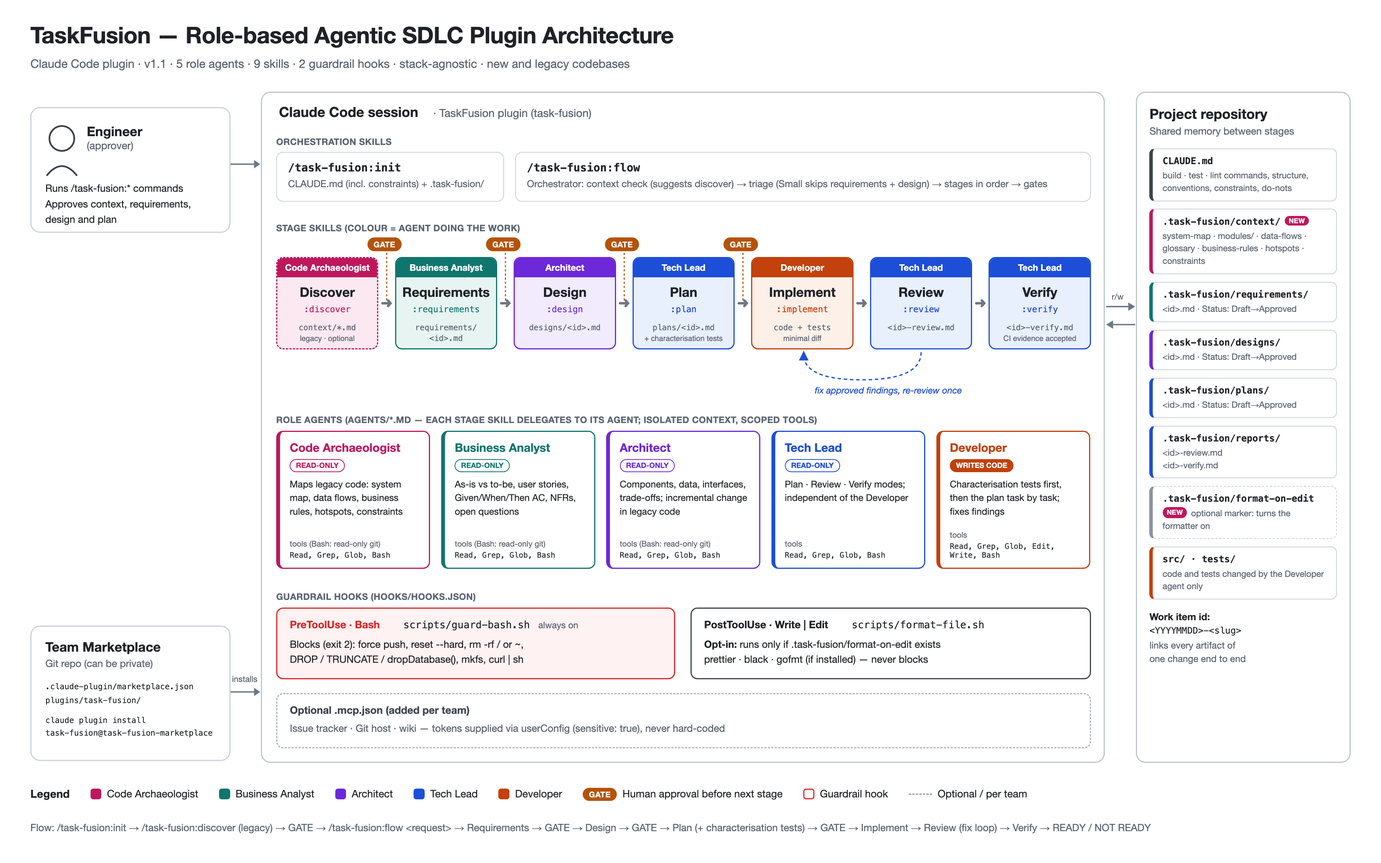
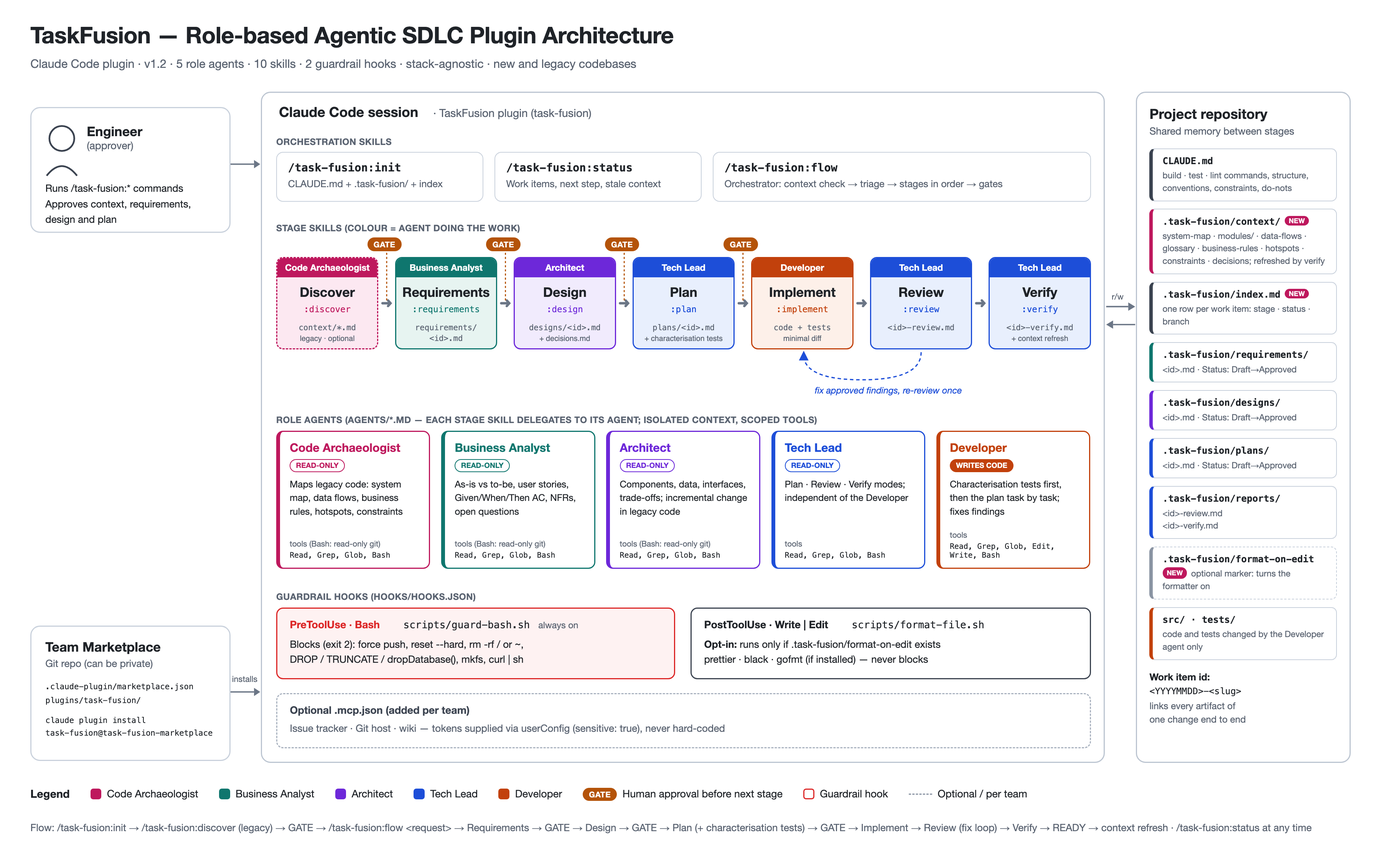
TaskFusion v1.2: work item index, status skill, decision log, context refresh
Closes the context-management gaps in v1.1:
- .task-fusion/index.md tracks every work item (stage, status, branch);
  stages update it and pick the active work item from it instead of
  guessing from the most recent file.
- New /task-fusion:status skill: work items, what each is waiting for,
  index drift, and module context files changed since they were written.
- Design appends approved decisions to .task-fusion/context/decisions.md;
  the architect follows accepted decisions or flags a supersede.
- Verify refreshes the affected context documents after a READY verdict.
- Init recommends committing .task-fusion/ so the team shares it.

Spec (TaskFusion-Build-Spec v1.2), READMEs and the architecture diagram
are updated to match.

diff --git a/docs/architecture.html b/docs/architecture.html
@@ -54,7 +54,7 @@ h1{position:absolute;left:44px;top:30px;margin:0;font-size:33px;font-weight:700;
 </style></head><body>
 
 <h1>TaskFusion — Role-based Agentic SDLC Plugin Architecture</h1>
-<div class="sub">Claude Code plugin · v1.1 · 5 role agents · 9 skills · 2 guardrail hooks · stack-agnostic · new and legacy codebases</div>
+<div class="sub">Claude Code plugin · v1.2 · 5 role agents · 10 skills · 2 guardrail hooks · stack-agnostic · new and legacy codebases</div>
 
 <!-- Engineer -->
 <div class="box" style="left:44px;top:155px;width:290px;height:182px;padding:22px 20px">
@@ -80,11 +80,14 @@ h1{position:absolute;left:44px;top:30px;margin:0;font-size:33px;font-weight:700;
 <div style="position:absolute;left:404px;top:150px;font-size:20px;font-weight:700">Claude Code session <span style="font-size:16px;font-weight:400;color:var(--muted);margin-left:16px">· TaskFusion plugin (task-fusion)</span></div>
 
 <div class="label" style="position:absolute;left:400px;top:197px">Orchestration skills</div>
-<div class="cmd" style="position:absolute;left:400px;top:220px;width:330px;height:72px">
-  <div class="t mono">/task-fusion:init</div><div class="d">CLAUDE.md (incl. constraints) + .task-fusion/</div>
+<div class="cmd" style="position:absolute;left:400px;top:220px;width:300px;height:72px">
+  <div class="t mono">/task-fusion:init</div><div class="d">CLAUDE.md + .task-fusion/ + index</div>
 </div>
-<div class="cmd" style="position:absolute;left:746px;top:220px;width:834px;height:72px">
-  <div class="t mono">/task-fusion:flow</div><div class="d">Orchestrator: context check (suggests discover) → triage (Small skips requirements + design) → stages in order → gates</div>
+<div class="cmd" style="position:absolute;left:716px;top:220px;width:300px;height:72px">
+  <div class="t mono">/task-fusion:status</div><div class="d">Work items, next step, stale context</div>
+</div>
+<div class="cmd" style="position:absolute;left:1032px;top:220px;width:548px;height:72px">
+  <div class="t mono">/task-fusion:flow</div><div class="d">Orchestrator: context check → triage → stages in order → gates</div>
 </div>
 
 <div class="label" style="position:absolute;left:400px;top:322px">Stage skills (colour = agent doing the work)</div>
@@ -94,7 +97,7 @@ h1{position:absolute;left:44px;top:30px;margin:0;font-size:33px;font-weight:700;
     <div class="arrow">➜</div>
     <div class="stage" style="border-color:var(--ba);background:var(--ba-bg)"><div class="hd" style="background:var(--ba)">Business Analyst</div><div class="nm">Requirements</div><div class="sk mono" style="color:var(--ba)">:requirements</div><div class="out mono">requirements/<br>&lt;id&gt;.md</div></div>
     <div class="arrow">➜</div>
-    <div class="stage" style="border-color:var(--ar);background:var(--ar-bg)"><div class="hd" style="background:var(--ar)">Architect</div><div class="nm">Design</div><div class="sk mono" style="color:var(--ar)">:design</div><div class="out mono">designs/&lt;id&gt;.md</div></div>
+    <div class="stage" style="border-color:var(--ar);background:var(--ar-bg)"><div class="hd" style="background:var(--ar)">Architect</div><div class="nm">Design</div><div class="sk mono" style="color:var(--ar)">:design</div><div class="out mono">designs/&lt;id&gt;.md<br><span style="font-family:Inter,-apple-system,sans-serif;font-size:11px">+ decisions.md</span></div></div>
     <div class="arrow">➜</div>
     <div class="stage" style="border-color:var(--tl);background:var(--tl-bg)"><div class="hd" style="background:var(--tl)">Tech Lead</div><div class="nm">Plan</div><div class="sk mono" style="color:var(--tl)">:plan</div><div class="out mono">plans/&lt;id&gt;.md<br><span style="font-family:Inter,-apple-system,sans-serif;font-size:11px">+ characterisation tests</span></div></div>
     <div class="arrow">➜</div>
@@ -102,7 +105,7 @@ h1{position:absolute;left:44px;top:30px;margin:0;font-size:33px;font-weight:700;
     <div class="arrow">➜</div>
     <div class="stage" style="border-color:var(--tl);background:var(--tl-bg)"><div class="hd" style="background:var(--tl)">Tech Lead</div><div class="nm">Review</div><div class="sk mono" style="color:var(--tl)">:review</div><div class="out mono">&lt;id&gt;-review.md</div></div>
     <div class="arrow">➜</div>
-    <div class="stage" style="border-color:var(--tl);background:var(--tl-bg)"><div class="hd" style="background:var(--tl)">Tech Lead</div><div class="nm">Verify</div><div class="sk mono" style="color:var(--tl)">:verify</div><div class="out mono">&lt;id&gt;-verify.md<br><span style="font-family:Inter,-apple-system,sans-serif;font-size:11px">CI evidence accepted</span></div></div>
+    <div class="stage" style="border-color:var(--tl);background:var(--tl-bg)"><div class="hd" style="background:var(--tl)">Tech Lead</div><div class="nm">Verify</div><div class="sk mono" style="color:var(--tl)">:verify</div><div class="out mono">&lt;id&gt;-verify.md<br><span style="font-family:Inter,-apple-system,sans-serif;font-size:11px">+ context refresh</span></div></div>
   </div>
   <!-- gates: arrow centres at i*172+160 -->
   <div class="gate" style="left:132px;top:-28px">GATE</div>
@@ -163,7 +166,8 @@ h1{position:absolute;left:44px;top:30px;margin:0;font-size:33px;font-weight:700;
   <div style="font-size:20px;font-weight:700">Project repository</div>
   <div style="font-size:14.5px;color:var(--muted);margin:4px 0 16px">Shared memory between stages</div>
   <div class="repo" style="border-left-color:#3b4350"><div class="p mono">CLAUDE.md</div><div class="d">build · test · lint commands, structure, conventions, constraints, do-nots</div></div>
-  <div class="repo" style="border-left-color:var(--ca)"><div class="p mono">.task-fusion/context/<span class="new">NEW</span></div><div class="d">system-map · modules/ · data-flows · glossary · business-rules · hotspots · constraints</div></div>
+  <div class="repo" style="border-left-color:var(--ca)"><div class="p mono">.task-fusion/context/<span class="new">NEW</span></div><div class="d">system-map · modules/ · data-flows · glossary · business-rules · hotspots · constraints · decisions; refreshed by verify</div></div>
+  <div class="repo" style="border-left-color:#3b4350"><div class="p mono">.task-fusion/index.md<span class="new">NEW</span></div><div class="d">one row per work item: stage · status · branch</div></div>
   <div class="repo" style="border-left-color:var(--ba)"><div class="p mono">.task-fusion/requirements/</div><div class="d">&lt;id&gt;.md · Status: Draft→Approved</div></div>
   <div class="repo" style="border-left-color:var(--ar)"><div class="p mono">.task-fusion/designs/</div><div class="d">&lt;id&gt;.md · Status: Draft→Approved</div></div>
   <div class="repo" style="border-left-color:var(--tl)"><div class="p mono">.task-fusion/plans/</div><div class="d">&lt;id&gt;.md · Status: Draft→Approved</div></div>
@@ -186,5 +190,5 @@ h1{position:absolute;left:44px;top:30px;margin:0;font-size:33px;font-weight:700;
   <span><span class="sw" style="border:2px solid var(--red);background:#fff"></span>Guardrail hook</span>
   <span><span style="display:inline-block;width:34px;border-top:2px dashed #8a94a3;vertical-align:4px;margin-right:8px"></span>Optional / per team</span>
 </div>
-<div class="foot">Flow: /task-fusion:init → /task-fusion:discover (legacy) → GATE → /task-fusion:flow &lt;request&gt; → Requirements → GATE → Design → GATE → Plan (+ characterisation tests) → GATE → Implement → Review (fix loop) → Verify → READY / NOT READY</div>
+<div class="foot">Flow: /task-fusion:init → /task-fusion:discover (legacy) → GATE → /task-fusion:flow &lt;request&gt; → Requirements → GATE → Design → GATE → Plan (+ characterisation tests) → GATE → Implement → Review (fix loop) → Verify → READY → context refresh · /task-fusion:status at any time</div>
 </body></html>

diff --git a/task-fusion-marketplace/plugins/task-fusion/skills/init/SKILL.md b/task-fusion-marketplace/plugins/task-fusion/skills/init/SKILL.md
@@ -22,9 +22,15 @@ Goal: give every later TaskFusion stage reliable, project-specific context.
    - ## Constraints (runtime and framework versions, environment limits, test coverage)
    - ## Do not (things that must never be changed or run)
 8. For a large repository with several major modules, offer to create a short CLAUDE.md inside each major module folder with that module's commands and conventions. Only create them if the user agrees.
-9. Create .task-fusion/ with the subfolders context/, requirements/, designs/, plans/ and reports/ if they do not exist.
-10. Ask the user whether .task-fusion/reports/ should be added to .gitignore. Only change .gitignore if they agree.
+9. Create .task-fusion/ with the subfolders context/, requirements/, designs/, plans/ and reports/ if they do not exist, and an index.md that contains only the work item table header shown below.
+10. Recommend committing .task-fusion/ (context/, requirements/, designs/, plans/ and index.md) so the whole team shares the same project knowledge. Ask whether reports/ should be committed too or added to .gitignore. Only change .gitignore if they agree.
 11. Ask the user whether TaskFusion should format files automatically after each edit. Recommend "no" for legacy or unformatted code, because formatting a whole file turns a small fix into a large diff. If they agree, create the empty file .task-fusion/format-on-edit.
-12. Finish with a short summary. If the repository is large, old or poorly documented, suggest /task-fusion:discover as the next step; otherwise suggest /task-fusion:requirements or /task-fusion:flow.
+12. Finish with a short summary. If the repository is large, old or poorly documented, suggest /task-fusion:discover as the next step; otherwise suggest /task-fusion:requirements or /task-fusion:flow. Mention /task-fusion:status for checking progress later.
 
 Keep CLAUDE.md under about 150 lines. It is loaded into every session, so every line must earn its place. Detailed knowledge of the system belongs in .task-fusion/context/, which /task-fusion:discover creates.
+
+Index format (.task-fusion/index.md; one row per work item):
+
+   # TaskFusion work items
+   | Work item | Title | Stage | Status | Branch | Updated |
+   |---|---|---|---|---|---|

diff --git a/task-fusion-marketplace/plugins/task-fusion/skills/design/SKILL.md b/task-fusion-marketplace/plugins/task-fusion/skills/design/SKILL.md
@@ -8,8 +8,8 @@ argument-hint: <work item id or requirements file path>
 
 Work item: $ARGUMENTS
 
-1. Load the requirements for the work item (the argument above, or the most recent file in .task-fusion/requirements/). If it is not approved, ask the user to approve it first or confirm they want to continue.
-2. Delegate to the task-fusion:architect agent with the requirements, CLAUDE.md and the relevant files in .task-fusion/context/ (especially constraints.md and hotspots.md).
+1. Load the requirements for the work item (the argument above; otherwise the only active work item in .task-fusion/index.md; if there are several, ask which one). If it is not approved, ask the user to approve it first or confirm they want to continue.
+2. Delegate to the task-fusion:architect agent with the requirements, CLAUDE.md and the relevant files in .task-fusion/context/ (especially constraints.md, hotspots.md and decisions.md). For each modules/<module>.md the design touches, run git log --oneline <its Commit>..HEAD -- <its Paths>; if there are commits, tell the user the file may be stale.
 3. Write the result to .task-fusion/designs/<id>.md using this template:
 
    # Design: <title>
@@ -29,4 +29,15 @@ Work item: $ARGUMENTS
 
 4. Include a simple Mermaid diagram when it makes the structure or flow clearer.
 5. Present a short summary and the file path. STOP and wait for approval.
-6. When the user approves, set "Status: Approved" and suggest /task-fusion:plan <id>.
+6. When the user approves, set "Status: Approved", add each key decision to .task-fusion/context/decisions.md using the format below, update the index row (stage Design, status Approved) and suggest /task-fusion:plan <id>.
+
+Decision log format (.task-fusion/context/decisions.md; create it if missing; newest entry last):
+
+   ## D-<n>: <decision title>
+   Status: Accepted · Date: <date> · Work item: <id>
+   Context: <why a decision was needed>
+   Decision: <option chosen>
+   Alternatives: <options rejected and why>
+   Consequences: <trade-offs accepted>
+
+If a new decision replaces an earlier one, change the earlier entry's status to "Superseded by D-<n>".

diff --git a/task-fusion-marketplace/plugins/task-fusion/README.md b/task-fusion-marketplace/plugins/task-fusion/README.md
@@ -25,6 +25,7 @@ TaskFusion is a Claude Code plugin that packages a generic, role-based agentic S
 | Review | `/task-fusion:review` | Tech Lead | `.task-fusion/reports/<id>-review.md` |
 | Verify | `/task-fusion:verify` | Tech Lead | `.task-fusion/reports/<id>-verify.md` (READY / NOT READY) |
 | End to end | `/task-fusion:flow` | All | Runs every stage with the gates above |
+| Status | `/task-fusion:status` | — | Work items, what each is waiting for, out-of-date context |
 
 ## Guardrails
 
@@ -49,13 +50,27 @@ claude plugin install task-fusion@task-fusion-marketplace
 /task-fusion:init
 /task-fusion:discover            # existing or legacy codebase
 /task-fusion:flow <request>
+/task-fusion:status              # where is everything up to?
 ```
 
 ## Files created in a project
 
 - `CLAUDE.md`
 - `.task-fusion/` with `context/`, `requirements/`, `designs/`, `plans/` and `reports/`
+- `.task-fusion/index.md`: one row per work item (stage, status, branch, last updated)
+- `.task-fusion/context/decisions.md`: decision log, added to whenever a design is approved
 - `.task-fusion/format-on-edit` only if you enable formatting
+
+## How project knowledge is managed
+
+Everything lives in files in the repository, so work survives between sessions and is shared with the team:
+
+- **`CLAUDE.md`** holds commands, conventions and constraints, and is loaded into every session.
+- **`.task-fusion/context/`** holds system knowledge, read by each stage as needed. Verify updates it after every READY change, and `/task-fusion:status` flags module files whose code has changed since they were written.
+- **Work item artifacts** in `requirements/`, `designs/`, `plans/` and `reports/` share one id and are tracked in `index.md`. Acceptance criteria numbers (AC-1, AC-2 …) trace each requirement to its design, tasks, tests and verification.
+- **Agents** each run in their own context and receive only the files their stage needs.
+
+Commit `.task-fusion/` (context, requirements, designs, plans and `index.md`) so the team shares one picture of the project. `reports/` is optional.
 
 ## Working with legacy code
 

diff --git a/task-fusion-marketplace/plugins/task-fusion/skills/discover/SKILL.md b/task-fusion-marketplace/plugins/task-fusion/skills/discover/SKILL.md
@@ -14,12 +14,13 @@ Focus: $ARGUMENTS
 3. For a large repository, split the work by major module. Run the task-fusion:code-archaeologist agent once per module, in parallel where possible, then once more across modules for the system map and cross-module data flows.
 4. Write the results to .task-fusion/context/:
    - system-map.md: purpose, modules, entry points, deployable units, external systems, and a Mermaid diagram
-   - modules/<module>.md: responsibility, key files, inbound and outbound dependencies, data owned, existing tests
+   - modules/<module>.md: a "Paths:" line listing the folders the module covers, then responsibility, key files, inbound and outbound dependencies, data owned, existing tests
    - data-flows.md: main flows end to end, data stores (including stored procedures, triggers, files and queues), batch jobs and integrations
    - glossary.md: domain terms as they appear in code, with their meaning
    - business-rules.md: rules found in code, each with file:line evidence and marked Confirmed or Inferred
    - hotspots.md: high-churn files, code with little or no test coverage, very large or complex files, dead-code candidates, deprecated dependencies
    - constraints.md: language, runtime and framework versions, build quirks, and anything that can only run in CI or a specific environment
+   - decisions.md: notable past decisions visible in code or git history, each marked Inferred, in the decision log format used by /task-fusion:design (optional; the design stage maintains it afterwards)
    Each file starts with "Status: Draft", "Last updated: <date>" and "Commit: <short sha>".
 5. Never copy secret values from configuration files into the context documents. Name the setting and write "<redacted>".
 6. Propose CLAUDE.md additions as a diff: a "## Context" line pointing to .task-fusion/context/, plus any commands or constraints that were missing. Apply them only if the user agrees.

diff --git a/task-fusion-marketplace/plugins/task-fusion/skills/review/SKILL.md b/task-fusion-marketplace/plugins/task-fusion/skills/review/SKILL.md
@@ -9,8 +9,9 @@ argument-hint: [work item id or base branch]
 Input: $ARGUMENTS
 
 1. Determine the base branch: a branch name given above, otherwise the repository default branch (main or master).
-2. Collect the change set: committed changes since the base plus staged and uncommitted changes.
-3. Delegate to the task-fusion:tech-lead agent in review mode with the change set, the matching plan, design and requirements if they exist, CLAUDE.md and .task-fusion/context/constraints.md if it exists.
-4. Present findings grouped as Critical, Major, Minor and Nit, each with file, line, issue and suggested fix.
-5. Do not fix anything automatically. Ask the user which findings to address; hand approved fixes to the task-fusion:developer agent.
-6. Save the review to .task-fusion/reports/<id>-review.md (use the date and branch name as the id when there is no work item).
+2. Find the work item: the id given above, otherwise the row in .task-fusion/index.md whose Branch is the current branch.
+3. Collect the change set: committed changes since the base plus staged and uncommitted changes.
+4. Delegate to the task-fusion:tech-lead agent in review mode with the change set, the matching plan, design and requirements if they exist, CLAUDE.md and .task-fusion/context/constraints.md if it exists.
+5. Present findings grouped as Critical, Major, Minor and Nit, each with file, line, issue and suggested fix.
+6. Do not fix anything automatically. Ask the user which findings to address; hand approved fixes to the task-fusion:developer agent.
+7. Save the review to .task-fusion/reports/<id>-review.md (use the date and branch name as the id when there is no work item). If there is a work item, update its index row: stage Review, status Findings open or Clean.

diff --git a/task-fusion-marketplace/plugins/task-fusion/skills/status/SKILL.md b/task-fusion-marketplace/plugins/task-fusion/skills/status/SKILL.md
@@ -1,0 +1,17 @@
+---
+name: status
+description: Show TaskFusion work items with their stage, approval status and next command, plus any out-of-date context documents. Use when the user asks what is in progress, where a change is up to, or whether the project context is current.
+argument-hint: [work item id]
+---
+
+# TaskFusion: status
+
+Work item: $ARGUMENTS
+
+1. Read .task-fusion/index.md. If it does not exist, build the list from the artifact files in .task-fusion/requirements/, designs/, plans/ and reports/, and offer to create the index.
+2. Check the index against the files on disk: each work item's latest artifact and its "Status:" line. Report any mismatch and offer to correct the index. Only change it if the user agrees.
+3. For each active work item (stage not Done), or only the one named above, show: id, title, stage, status, branch, what it is waiting for (an approval, open review findings or a NOT READY verdict) and the next command to run.
+4. If .task-fusion/context/ exists, check its freshness. For each modules/<module>.md, run git log --oneline <its Commit>..HEAD -- <its Paths> and report how many commits have changed those paths since the file was written. For the other context files, report how many commits the repository has had since their Commit. Mark a module file "Possibly stale" when its paths have changed, and suggest /task-fusion:discover <module> to refresh it.
+5. If .task-fusion/context/decisions.md exists, list its five most recent entries.
+
+Keep the output short: one table of work items, then any warnings. This skill only reads, apart from index corrections the user approves.

diff --git a/task-fusion-marketplace/plugins/task-fusion/skills/flow/SKILL.md b/task-fusion-marketplace/plugins/task-fusion/skills/flow/SKILL.md
@@ -11,7 +11,7 @@ Request: $ARGUMENTS
 
 Keep a task list with one item per stage. Follow each stage's own skill instructions.
 
-0. Context. If .task-fusion/context/ does not exist and the repository is large, old or poorly documented, suggest running /task-fusion:discover first and ask the user.
+0. Context. If .task-fusion/context/ does not exist and the repository is large, old or poorly documented, suggest running /task-fusion:discover first and ask the user. If it does exist, run the freshness check from /task-fusion:status and mention any possibly stale files.
 1. Triage. Ask the tech-lead agent to classify the request as Small (a contained fix or tweak) or Standard. For Small, propose skipping Requirements and Design and ask the user to confirm.
 2. Requirements — /task-fusion:requirements. GATE: wait for approval.
 3. Design — /task-fusion:design. GATE: wait for approval.
@@ -20,4 +20,4 @@ Keep a task list with one item per stage. Follow each stage's own skill instruct
 6. Review — /task-fusion:review. GATE: if there are Critical or Major findings, ask which to fix, have the developer fix them, then review once more.
 7. Verify — /task-fusion:verify.
 
-Finish with a short summary: work item id, artifact paths, files changed, test results, review outcome, verification verdict and a suggested conventional-commit message. Do not commit.
+Finish with a short summary: work item id, artifact paths, files changed, test results, review outcome, verification verdict and a suggested conventional-commit message. Check that the index row shows stage Done, or the stage where the flow stopped. Do not commit.

diff --git a/task-fusion-marketplace/plugins/task-fusion/skills/requirements/SKILL.md b/task-fusion-marketplace/plugins/task-fusion/skills/requirements/SKILL.md
@@ -9,7 +9,7 @@ argument-hint: <request, ticket summary or problem statement>
 Request: $ARGUMENTS
 
 1. If the request above is empty, ask the user for it.
-2. Create the work item id (<YYYYMMDD>-<short-kebab-slug>).
+2. Create the work item id (<YYYYMMDD>-<short-kebab-slug>) and add its row to .task-fusion/index.md: stage Requirements, status Draft, the current branch and today's date. Create the index with the header below if it does not exist.
 3. Delegate to the task-fusion:business-analyst agent with the request, CLAUDE.md and any relevant files in .task-fusion/context/. Ask it for a requirements draft and a list of open questions.
 4. If the agent returns blocking open questions, ask the user up to five of them in one message and pass the answers back to the agent.
 5. Write the result to .task-fusion/requirements/<id>.md using this template:
@@ -28,4 +28,10 @@ Request: $ARGUMENTS
    ## Open questions
 
 6. Present a short summary and the file path. STOP and wait for approval.
-7. When the user approves, set "Status: Approved" and suggest /task-fusion:design <id>. If they request changes, update the file and present it again.
+7. When the user approves, set "Status: Approved" and suggest /task-fusion:design <id>. If they request changes, update the file and present it again. Update the index row whenever the status changes.
+
+Index format (.task-fusion/index.md; one row per work item):
+
+   # TaskFusion work items
+   | Work item | Title | Stage | Status | Branch | Updated |
+   |---|---|---|---|---|---|

diff --git a/task-fusion-marketplace/plugins/task-fusion/skills/verify/SKILL.md b/task-fusion-marketplace/plugins/task-fusion/skills/verify/SKILL.md
@@ -8,7 +8,7 @@ argument-hint: [work item id]
 
 Work item: $ARGUMENTS
 
-1. Load the requirements, plan and latest review report for the work item.
+1. Load the requirements, plan and latest review report for the work item (the argument above; otherwise the only active work item in .task-fusion/index.md; if there are several, ask which one).
 2. Delegate to the task-fusion:tech-lead agent in verification mode.
 3. Produce a checklist with PASS, FAIL or N/A and evidence for each item:
    - Every acceptance criterion (AC-n) is met and covered by a test or a documented manual check
@@ -23,3 +23,5 @@ Work item: $ARGUMENTS
 4. When a check cannot run locally (CLAUDE.md or .task-fusion/context/constraints.md says so), mark it PASS only with evidence from a CI run or a documented manual check, and name the source. Without evidence, mark it FAIL.
 5. Write the result to .task-fusion/reports/<id>-verify.md.
 6. Verdict: READY only if every item is PASS or N/A; otherwise NOT READY with the items to fix.
+7. If the verdict is READY and .task-fusion/context/ exists, bring the system knowledge up to date: list the context files this change makes out of date (modules touched, business rules added or changed, new glossary terms, new constraints). Propose the updates as a diff and apply them if the user agrees, refreshing each changed file's "Last updated" and "Commit" lines.
+8. Update the index row: stage Done when the verdict is READY and step 7 is finished; otherwise stage Verify, status NOT READY.

diff --git a/task-fusion-marketplace/plugins/task-fusion/agents/architect.md b/task-fusion-marketplace/plugins/task-fusion/agents/architect.md
@@ -7,7 +7,7 @@ tools: Read, Grep, Glob, Bash
 You are a pragmatic Software Architect. You never modify files. Use Bash only for read-only git commands (git log, git blame, git show) to understand how the current design evolved.
 
 For the requirements you are given:
-1. Read .task-fusion/context/ first if it exists. Then study the existing architecture: module boundaries, layering, data stores, integration points and patterns already in use. Reuse existing patterns unless there is a clear reason not to.
+1. Read .task-fusion/context/ first if it exists, including decisions.md: follow accepted decisions, and if your design contradicts one, say so and explain why it should be superseded. Then study the existing architecture: module boundaries, layering, data stores, integration points and patterns already in use. Reuse existing patterns unless there is a clear reason not to.
 2. Propose the simplest design that satisfies every acceptance criterion and non-functional requirement. Respect the constraints in constraints.md, such as runtime and framework versions. In legacy code, prefer small incremental changes behind existing interfaces over rewrites, and call out any hotspots the design touches.
 3. Describe components and responsibilities, data model changes, and interface contracts (endpoints, payloads, events, error responses).
 4. For each significant decision, record the option chosen, at least one alternative, and the trade-offs.

diff --git a/task-fusion-marketplace/plugins/task-fusion/skills/implement/SKILL.md b/task-fusion-marketplace/plugins/task-fusion/skills/implement/SKILL.md
@@ -9,8 +9,8 @@ disable-model-invocation: true
 
 Work item: $ARGUMENTS
 
-1. Load the plan (the argument above, or the most recent file in .task-fusion/plans/). If it is not approved, show its summary and ask the user to approve it before editing anything.
+1. Load the plan for the work item (the argument above; otherwise the only active work item in .task-fusion/index.md; if there are several, ask which one). Set its index row to stage Implement, status In progress. If it is not approved, show its summary and ask the user to approve it before editing anything.
 2. Delegate to the task-fusion:developer agent with the plan, the design, the requirements and CLAUDE.md. Ask it to write any characterisation tests from the plan first, then work task by task, writing or updating tests for each task, and to run the relevant build and tests after each one.
 3. If the developer reports work that is not covered by the plan, record it under a new "## Implementation notes" section in the plan and ask the user before acting on it.
 4. Do not commit, push or modify CI/CD configuration unless the user explicitly asks.
-5. Report: files changed, tests added, checks run and their results, deviations from the plan. Suggest /task-fusion:review <id>.
+5. Report: files changed, tests added, checks run and their results, deviations from the plan. Set the index row status to Complete and suggest /task-fusion:review <id>.
